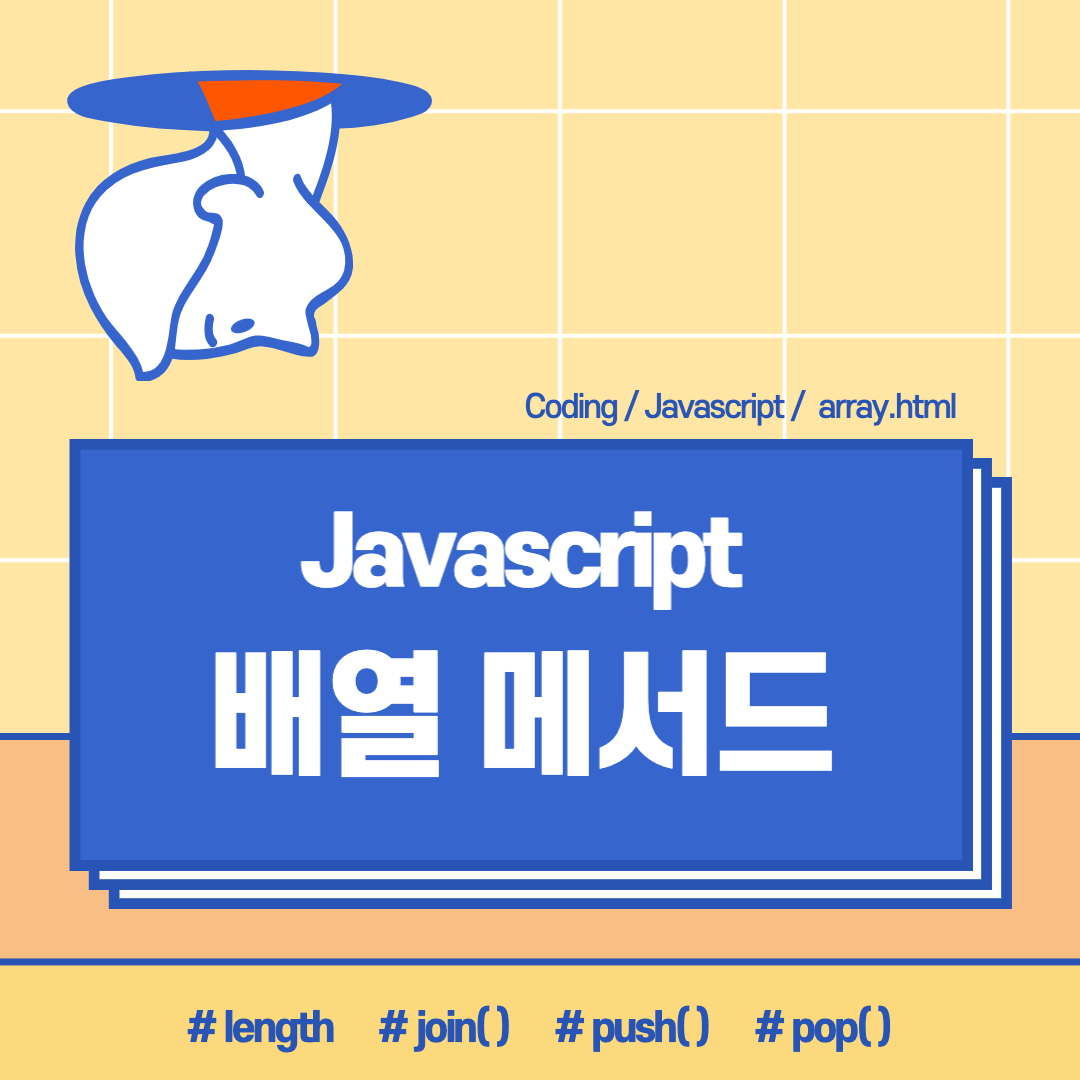
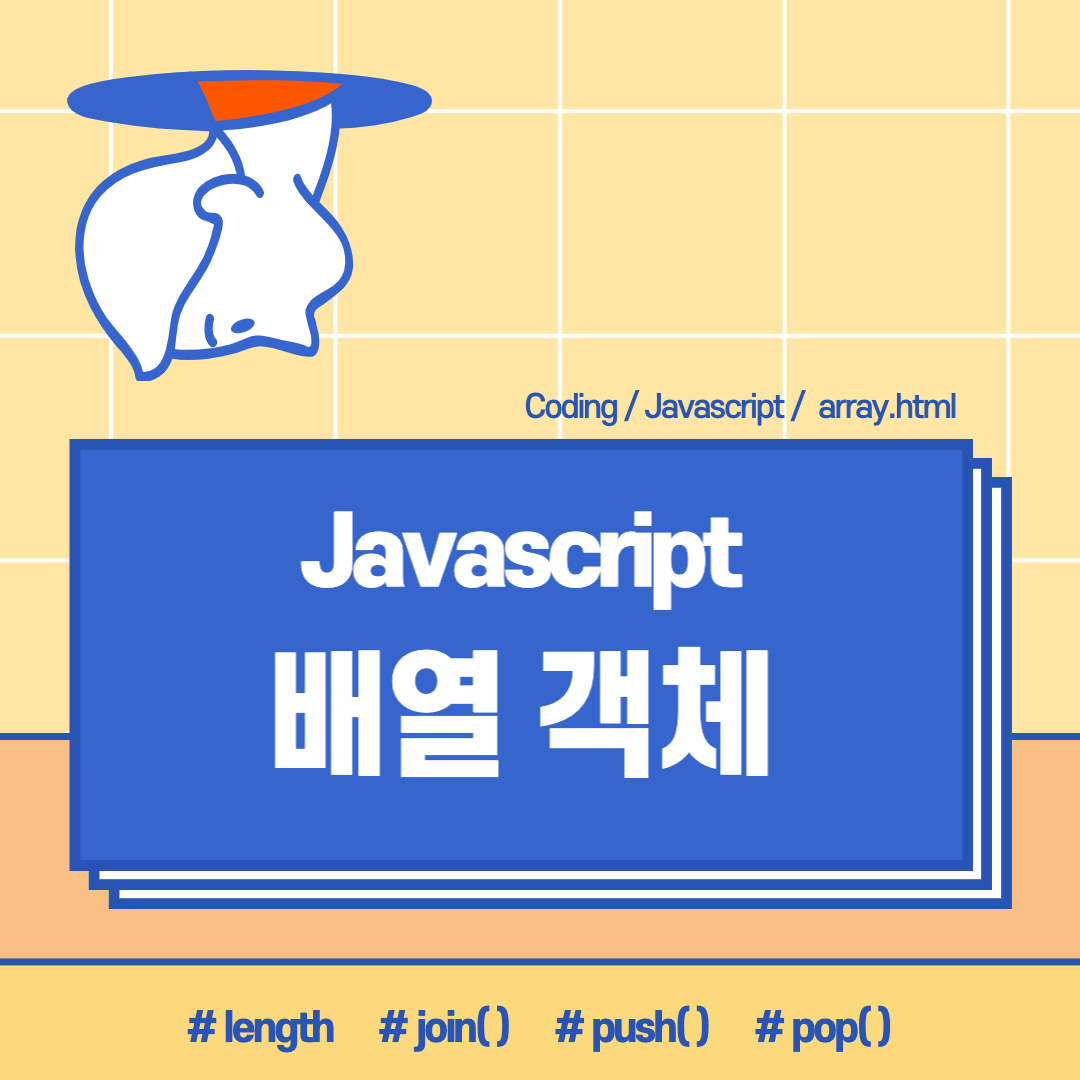
20220811
수정

Changed region(s): [[0.1833, 0.5806, 0.7639, 0.7333]]

diff --git a/javascript/study/if.html b/javascript/study/if.html
@@ -37,7 +37,7 @@
                 <li><a href="function.html">함수</a></li>
                 <li><a href="var.html">전역변수/지역변수</a></li>
                 <li><a href="element.html">요소 선택</a></li>
-                <li><a href="array.html">배열 메서드</a></li>
+                <li><a href="array.html">배열 객체</a></li>
             </ul>
         </nav>
     </header>
@@ -123,7 +123,7 @@
             <h3 class="t_tit2">switch 문</h3>
             <p class="t_desc">
                 switch(값)의 값과 case의 값들을 하나씩 비교하여 일치하는 case를 실행시켜 줍니다.
-                특정조건에 만족 했을 때는 break 명령어가 있어야 블록{}을 빠져 나갈 수 있습니다.<br>
+                특정조건에 만족 했을 때는 break 명령어가 있어야 블록{}을 빠져 나갈 수 있습니다.
                 default는 switch의 값과 일치하는 값이 없을 때 실행합니다.
             </p>
             <div class="t_code">

diff --git a/javascript/javascript08.html b/javascript/javascript08.html
@@ -45,7 +45,7 @@
                 <li><a href="study/function.html">함수</a></li>
                 <li><a href="study/var.html">전역변수/지역변수</a></li>
                 <li><a href="study/element.html">요소 선택</a></li>
-                <li><a href="study/array.html">배열 메서드</a></li>
+                <li><a href="study/array.html">배열 메서객체드</a></li>
             </ul>
         </nav>
     </header>

diff --git a/javascript/javascript01.html b/javascript/javascript01.html
@@ -46,7 +46,7 @@
                 <li><a href="study/function.html">함수</a></li>
                 <li><a href="study/var.html">전역변수/지역변수</a></li>
                 <li><a href="study/element.html">요소 선택</a></li>
-                <li><a href="study/array.html">배열 메서드</a></li>
+                <li><a href="study/array.html">배열 객체</a></li>
             </ul>
         </nav>
     </header>

diff --git a/javascript/javascript02.html b/javascript/javascript02.html
@@ -46,7 +46,7 @@
                 <li><a href="study/function.html">함수</a></li>
                 <li><a href="study/var.html">전역변수/지역변수</a></li>
                 <li><a href="study/element.html">요소 선택</a></li>
-                <li><a href="study/array.html">배열 메서드</a></li>
+                <li><a href="study/array.html">배열 객체</a></li>
             </ul>
         </nav>
     </header>

diff --git a/javascript/javascript03.html b/javascript/javascript03.html
@@ -46,7 +46,7 @@
                 <li><a href="study/function.html">함수</a></li>
                 <li><a href="study/var.html">전역변수/지역변수</a></li>
                 <li><a href="study/element.html">요소 선택</a></li>
-                <li><a href="study/array.html">배열 메서드</a></li>
+                <li><a href="study/array.html">배열 객체</a></li>
             </ul>
         </nav>
     </header>

diff --git a/javascript/javascript04.html b/javascript/javascript04.html
@@ -46,7 +46,7 @@
                 <li><a href="study/function.html">함수</a></li>
                 <li><a href="study/var.html">전역변수/지역변수</a></li>
                 <li><a href="study/element.html">요소 선택</a></li>
-                <li><a href="study/array.html">배열 메서드</a></li>
+                <li><a href="study/array.html">배열 객체</a></li>
             </ul>
         </nav>
     </header>

diff --git a/javascript/javascript05.html b/javascript/javascript05.html
@@ -46,7 +46,7 @@
                 <li><a href="study/function.html">함수</a></li>
                 <li><a href="study/var.html">전역변수/지역변수</a></li>
                 <li><a href="study/element.html">요소 선택</a></li>
-                <li><a href="study/array.html">배열 메서드</a></li>
+                <li><a href="study/array.html">배열 객체</a></li>
             </ul>
         </nav>
     </header>

diff --git a/javascript/javascript06.html b/javascript/javascript06.html
@@ -46,7 +46,7 @@
                 <li><a href="study/function.html">함수</a></li>
                 <li><a href="study/var.html">전역변수/지역변수</a></li>
                 <li><a href="study/element.html">요소 선택</a></li>
-                <li><a href="study/array.html">배열 메서드</a></li>
+                <li><a href="study/array.html">배열 객체</a></li>
             </ul>
         </nav>
     </header>

diff --git a/javascript/javascript07.html b/javascript/javascript07.html
@@ -45,7 +45,7 @@
                 <li><a href="study/function.html">함수</a></li>
                 <li><a href="study/var.html">전역변수/지역변수</a></li>
                 <li><a href="study/element.html">요소 선택</a></li>
-                <li><a href="study/array.html">배열 메서드</a></li>
+                <li><a href="study/array.html">배열 객체</a></li>
             </ul>
         </nav>
     </header>

diff --git a/javascript/javascript09.html b/javascript/javascript09.html
@@ -45,7 +45,7 @@
                 <li><a href="study/function.html">함수</a></li>
                 <li><a href="study/var.html">전역변수/지역변수</a></li>
                 <li><a href="study/element.html">요소 선택</a></li>
-                <li><a href="study/array.html">배열 메서드</a></li>
+                <li><a href="study/array.html">배열 객체</a></li>
             </ul>
         </nav>
     </header>

diff --git a/javascript/javascript10.html b/javascript/javascript10.html
@@ -45,7 +45,7 @@
                 <li><a href="study/function.html">함수</a></li>
                 <li><a href="study/var.html">전역변수/지역변수</a></li>
                 <li><a href="study/element.html">요소 선택</a></li>
-                <li><a href="study/array.html">배열 메서드</a></li>
+                <li><a href="study/array.html">배열 객체</a></li>
             </ul>
         </nav>
     </header>

diff --git a/javascript/javascript11.html b/javascript/javascript11.html
@@ -45,7 +45,7 @@
                 <li><a href="study/function.html">함수</a></li>
                 <li><a href="study/var.html">전역변수/지역변수</a></li>
                 <li><a href="study/element.html">요소 선택</a></li>
-                <li><a href="study/array.html">배열 메서드</a></li>
+                <li><a href="study/array.html">배열 객체</a></li>
             </ul>
         </nav>
     </header>
